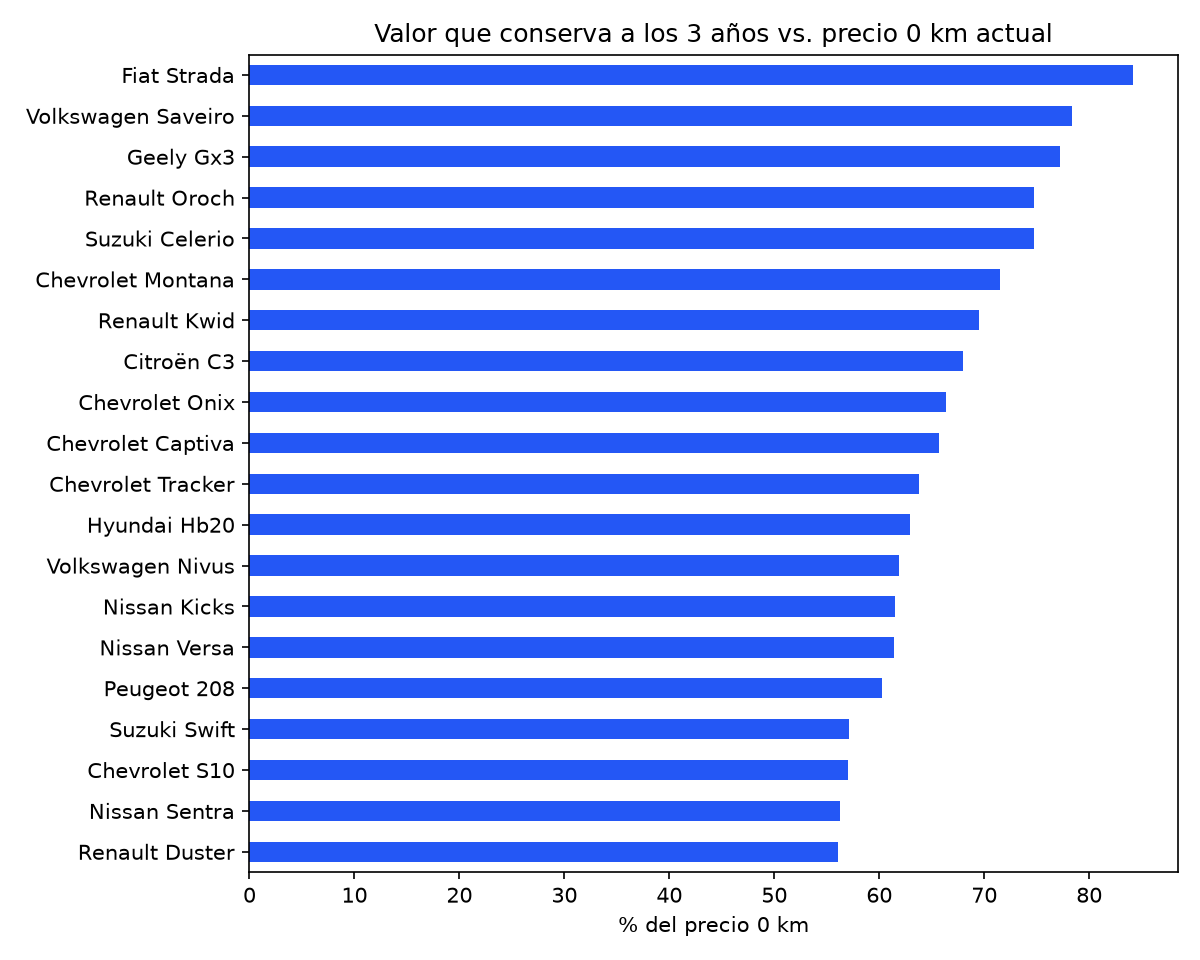
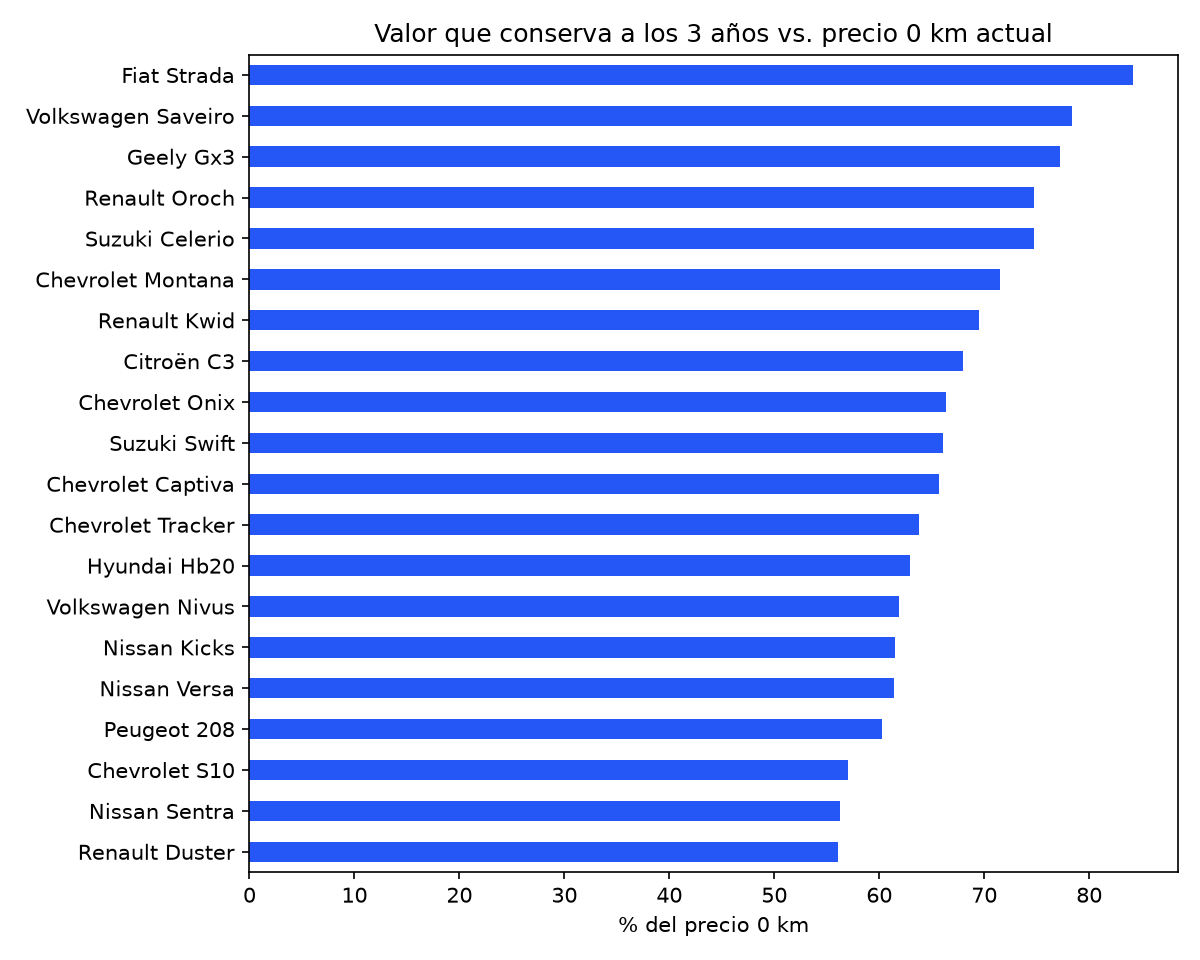
Price models from new against comparable 0 km versions only
The 0 km reference now skips versions with another powertrain and
sub-models that barely appear among used cars, falls back to electrified
versions when a model is only sold that way, reports retention against
both the median and the cheapest version, and lists the versions used
so the matching can be audited.

diff --git a/src/vidriera_insights/analysis.py b/src/vidriera_insights/analysis.py
@@ -122,17 +122,60 @@ def pct_loss(log_slope: float) -> float:
     return round((1 - np.exp(log_slope)) * 100, 1)
 
 
-def new_price_for(brand: str, model: str, new: pd.DataFrame) -> float | None:
-    """Median 0 km list price of a model, matching list entries that start with its name.
+NEW_ELECTRIC = re.compile(r"\bev\b|\bbev\b|kwh|el[eé]ctric")
+NEW_HYBRID = re.compile(r"h[ií]brid|hybrid|\bphev\b|\bhev\b|\bmhev\b|\bdht\b|e-power|\bdm-i\b")
+# Words that, right after the model name, mark a different car rather than a trim.
+SUB_MODELS = {"plus", "sport", "pro", "cross", "max", "sedan", "sedán", "hatch", "cabrio", "coupé", "coupe"}
 
-    The list names versions ("Onix 1.0 Turbo LT", "Onix Plus Premier"), so every
-    version whose name starts with the model counts; the median keeps one pricey
-    trim from dominating.
+
+def powertrain_of(name: str) -> str:
+    name = name.lower()
+    if NEW_ELECTRIC.search(name):
+        return "Eléctrico"
+    if NEW_HYBRID.search(name):
+        return "Híbrido"
+    return "Combustión"
+
+
+def new_versions_for(brand: str, model: str, new: pd.DataFrame, used: pd.DataFrame | None = None) -> pd.DataFrame:
+    """0 km list entries comparable to the used cars of a model.
+
+    Starts from every version whose name begins with the model ("Onix 1.0 LT",
+    "Onix Plus Premier") and, when the used cars are given, drops the versions that
+    are really a different car:
+    - another powertrain (an EV or plug-in version next to petrol used cars);
+    - a sub-model ("Swift Sport") that barely appears among the used listings.
+    A sub-model shared by every 0 km version ("GX3 Pro") is just the model's name.
     """
     same_brand = new[new["brand"] == brand]
     pattern = re.compile(rf"^{re.escape(model.lower())}(\s|$)")
-    matches = same_brand[same_brand["name"].str.lower().str.match(pattern)]
-    return float(matches["price"].median()) if len(matches) else None
+    matches = same_brand[same_brand["name"].str.lower().str.match(pattern)].copy()
+    if used is None or matches.empty:
+        return matches
+
+    rest = matches["name"].str.lower().str.slice(len(model)).str.strip()
+    next_word = rest.str.split().str[0].fillna("")
+    text_cols = [c for c in ("version", "title") if c in used.columns]
+    used_text = used[text_cols].fillna("").agg(" ".join, axis=1).str.lower()
+    for word in set(next_word) & SUB_MODELS:
+        if (next_word == word).all():
+            continue
+        if used_text.str.contains(rf"\b{re.escape(word)}\b").mean() < 0.1:
+            matches = matches[next_word != word]
+            next_word = next_word[next_word != word]
+
+    used_fuel = used["fuel"].mode() if "fuel" in used.columns else pd.Series(dtype="object")
+    target = used_fuel.iloc[0] if len(used_fuel) and used_fuel.iloc[0] in ("Eléctrico", "Híbrido") else "Combustión"
+    same_powertrain = matches[matches["name"].map(powertrain_of) == target]
+    # Some models are now only sold electrified (the new Swift is a mild hybrid):
+    # then the remaining versions are still the closest thing to "this model, new".
+    return same_powertrain if len(same_powertrain) else matches
+
+
+def new_price_for(brand: str, model: str, new: pd.DataFrame, used: pd.DataFrame | None = None) -> float | None:
+    """Median 0 km list price over the comparable versions of a model."""
+    versions = new_versions_for(brand, model, new, used)
+    return float(versions["price"].median()) if len(versions) else None
 
 
 def depreciation_from_new(
@@ -151,18 +194,35 @@ def depreciation_from_new(
     for (brand, model), group in recent.groupby(["brand", "model"]):
         if len(group) < min_used or group["age"].nunique() < 2:
             continue
-        new_price = new_price_for(brand, model, new)
-        if new_price is None:
+        versions = new_versions_for(brand, model, new, group)
+        if versions.empty:
             continue
+        new_price, base_price = versions["price"].median(), versions["price"].min()
         slope, intercept = np.polyfit(group["age"], np.log(group["price"] / new_price), 1)
         if slope >= 0:  # value rising with age means the sample is noise, not a curve
             continue
         kept = {f"kept_{t}y_pct": round(float(np.exp(intercept + slope * t)) * 100, 1) for t in (1, 3, 5)}
-        rows.append({"brand": brand, "model": model, "new_price": new_price, "used_listings": len(group),
-                     "median_used_age": group["age"].median(), **kept})
-    columns = ["brand", "model", "new_price", "used_listings", "median_used_age",
-               "kept_1y_pct", "kept_3y_pct", "kept_5y_pct"]
+        # The used car's trim is unknown, so also read the curve against the cheapest
+        # version: the truth sits between "vs. median version" and "vs. base version".
+        kept_3y_vs_base = round(min(kept["kept_3y_pct"] * new_price / base_price, 100.0), 1)
+        rows.append({"brand": brand, "model": model, "new_price": new_price, "base_price": base_price,
+                     "versions": len(versions), "used_listings": len(group),
+                     "median_used_age": group["age"].median(), **kept, "kept_3y_vs_base_pct": kept_3y_vs_base})
+    columns = ["brand", "model", "new_price", "base_price", "versions", "used_listings", "median_used_age",
+               "kept_1y_pct", "kept_3y_pct", "kept_5y_pct", "kept_3y_vs_base_pct"]
     return pd.DataFrame(rows, columns=columns).sort_values("kept_3y_pct", ascending=False).reset_index(drop=True)
+
+
+def new_versions_table(used: pd.DataFrame, new: pd.DataFrame, models: pd.DataFrame) -> pd.DataFrame:
+    """Which 0 km versions priced each model, so the matching can be audited."""
+    rows = []
+    recent = used.dropna(subset=["model"])
+    for brand, model in models[["brand", "model"]].itertuples(index=False):
+        group = recent[(recent["brand"] == brand) & (recent["model"] == model)]
+        versions = new_versions_for(brand, model, new, group)
+        rows.append({"brand": brand, "model": model,
+                     "versions_used": " · ".join(f"{n} ({p:,.0f})" for n, p in versions[["name", "price"]].values)})
+    return pd.DataFrame(rows, columns=["brand", "model", "versions_used"])
 
 
 def powertrain_summary(df: pd.DataFrame) -> pd.DataFrame:

diff --git a/src/vidriera_insights/report.py b/src/vidriera_insights/report.py
@@ -92,6 +92,7 @@ def main() -> None:
     dealers = analysis.dealer_pricing(df, anonymize=args.anonymize_dealers)
     market = analysis.time_on_market(df)
     from_new = analysis.depreciation_from_new(df, new_cars)
+    from_new_versions = analysis.new_versions_table(df, new_cars, from_new)
     list_date = new_cars["list_updated"].dropna().iloc[0] if new_cars["list_updated"].notna().any() else "s/f"
     electrified = analysis.powertrain_summary(df)
     electric_cars = df[df["fuel"] == "Eléctrico"].sort_values("price")[
@@ -171,13 +172,25 @@ Valor que conserva un usado frente al **precio de lista 0 km actual** del mismo 
 `log(precio usado / precio 0 km) ~ antigüedad` sobre autos de hasta 6 años (misma generación).
 El precio 0 km es la mediana de las versiones del modelo en la
 [lista de precios de Autoblog Uruguay](https://www.autoblog.com.uy/p/precios-0km.html)
-({len(new_cars)} versiones, actualizada al {list_date}; precios en USD con IVA). Se descartan los modelos
-con menos de 10 usados recientes o con una curva sin sentido (que *sube* con la edad).
+({len(new_cars)} versiones, actualizada al {list_date}; precios en USD con IVA). Solo cuentan las versiones
+**comparables**: misma motorización que los usados (un Captiva naftero no se compara con el Captiva EV) y sin
+sub-modelos que casi no aparecen entre los usados (Swift Sport). Se descartan los modelos con menos de 10 usados
+recientes o con una curva sin sentido (que *sube* con la edad).
 
-Ojo: es el precio de lista **de hoy**, no el que pagó el primer dueño, y las versiones del usado y del 0 km
-pueden no coincidir. Es una aproximación razonable a "cuánto pierde un auto desde nuevo", no un valor exacto.
+Como no se sabe la versión de cada usado, hay dos lecturas: `kept_3y_pct` contra la **versión mediana** y
+`kept_3y_vs_base_pct` contra la **más barata**. El valor real está entre las dos.
+
+Ojo: es el precio de lista **de hoy**, no el que pagó el primer dueño, y no incluye las bonificaciones que suelen
+dar las concesionarias (lo que exagera un poco la pérdida). Es una aproximación razonable a "cuánto pierde un auto
+desde nuevo", no un valor exacto.
 
 ![](from_new.png)
+
+<details><summary>Versiones 0 km usadas para cada modelo</summary>
+
+{md(from_new_versions, index=False)}
+
+</details>
 
 {md(from_new, index=False) if not from_new.empty else "_Todavía no hay modelos con suficientes usados y precio 0 km._"}
 

diff --git a/tests/test_analysis.py b/tests/test_analysis.py
@@ -110,3 +110,19 @@ def test_market_trend_orders_snapshots():
     })
     trend = analysis.market_trend(snaps)
     assert list(trend["listings"]) == [1, 2]
+
+
+def test_new_versions_skip_other_powertrains_and_rare_sub_models():
+    new = pd.DataFrame({
+        "brand": ["Chevrolet"] * 2 + ["Suzuki"] * 4,
+        "name": ["Captiva XL LTZ 1.5 T", "Captiva EV Premier (60 kWh)",
+                 "Swift Hybrid 1.2 GLX M/T", "Swift Hybrid 1.2 GLX CVT", "Swift Sport 1.4 M/T", "Swift Sport 1.4 A/T"],
+        "price": [34990.0, 31990.0, 22990.0, 24990.0, 30590.0, 33590.0],
+    })
+    used_captiva = pd.DataFrame({"fuel": ["Nafta"] * 5, "version": ["Premier"] * 5, "title": ["Captiva"] * 5})
+    used_swift = pd.DataFrame({"fuel": ["Nafta"] * 5, "version": ["GL 1.2"] * 5, "title": ["Swift"] * 5})
+    captiva = analysis.new_versions_for("Chevrolet", "Captiva", new, used_captiva)
+    swift = analysis.new_versions_for("Suzuki", "Swift", new, used_swift)
+    assert captiva["name"].tolist() == ["Captiva XL LTZ 1.5 T"]  # petrol used cars aren't compared with the EV
+    # "Sport" is a different car; the new Swift is only sold as a hybrid, so those versions stay.
+    assert swift["name"].tolist() == ["Swift Hybrid 1.2 GLX M/T", "Swift Hybrid 1.2 GLX CVT"]

diff --git a/reports/REPORT.md b/reports/REPORT.md
@@ -91,36 +91,69 @@ Valor que conserva un usado frente al **precio de lista 0 km actual** del mismo 
 `log(precio usado / precio 0 km) ~ antigüedad` sobre autos de hasta 6 años (misma generación).
 El precio 0 km es la mediana de las versiones del modelo en la
 [lista de precios de Autoblog Uruguay](https://www.autoblog.com.uy/p/precios-0km.html)
-(1051 versiones, actualizada al 2026-10-12; precios en USD con IVA). Se descartan los modelos
-con menos de 10 usados recientes o con una curva sin sentido (que *sube* con la edad).
+(1051 versiones, actualizada al 2026-10-12; precios en USD con IVA). Solo cuentan las versiones
+**comparables**: misma motorización que los usados (un Captiva naftero no se compara con el Captiva EV) y sin
+sub-modelos que casi no aparecen entre los usados (Swift Sport). Se descartan los modelos con menos de 10 usados
+recientes o con una curva sin sentido (que *sube* con la edad).
 
-Ojo: es el precio de lista **de hoy**, no el que pagó el primer dueño, y las versiones del usado y del 0 km
-pueden no coincidir. Es una aproximación razonable a "cuánto pierde un auto desde nuevo", no un valor exacto.
+Como no se sabe la versión de cada usado, hay dos lecturas: `kept_3y_pct` contra la **versión mediana** y
+`kept_3y_vs_base_pct` contra la **más barata**. El valor real está entre las dos.
+
+Ojo: es el precio de lista **de hoy**, no el que pagó el primer dueño, y no incluye las bonificaciones que suelen
+dar las concesionarias (lo que exagera un poco la pérdida). Es una aproximación razonable a "cuánto pierde un auto
+desde nuevo", no un valor exacto.
 
 ![](from_new.png)
 
-| brand      | model   |   new_price |   used_listings |   median_used_age |   kept_1y_pct |   kept_3y_pct |   kept_5y_pct |
-|:-----------|:--------|------------:|----------------:|------------------:|--------------:|--------------:|--------------:|
-| Fiat       | Strada  |       19640 |              30 |               3.5 |          93.3 |          84.2 |          76.1 |
-| Volkswagen | Saveiro |       19340 |              12 |               3   |          82.2 |          78.4 |          74.9 |
-| Geely      | Gx3     |       17990 |              12 |               3.5 |          84.1 |          77.2 |          70.9 |
-| Renault    | Oroch   |       24490 |              29 |               4   |          92.3 |          74.7 |          60.4 |
-| Suzuki     | Celerio |       16640 |              17 |               5   |          80.2 |          74.7 |          69.6 |
-| Chevrolet  | Montana |       25990 |              22 |               2   |          83.4 |          71.5 |          61.3 |
-| Renault    | Kwid    |       15400 |              30 |               5   |          73.8 |          69.5 |          65.4 |
-| Citroën    | C3      |       17990 |              15 |               2   |          78.5 |          68   |          58.9 |
-| Chevrolet  | Onix    |       23490 |             153 |               3   |          70.6 |          66.4 |          62.5 |
-| Chevrolet  | Captiva |       35990 |              12 |               4   |          78.1 |          65.7 |          55.2 |
-| Chevrolet  | Tracker |       32890 |              45 |               5   |          70.7 |          63.8 |          57.6 |
-| Hyundai    | Hb20    |       23945 |              43 |               3   |          65.6 |          62.9 |          60.3 |
-| Volkswagen | Nivus   |       32990 |              12 |               5   |          65.8 |          61.9 |          58.2 |
-| Nissan     | Kicks   |       33990 |              25 |               3   |          69.3 |          61.5 |          54.5 |
-| Nissan     | Versa   |       28990 |              21 |               3   |          71.1 |          61.4 |          53   |
-| Peugeot    | 208     |       24990 |              31 |               3   |          72.5 |          60.3 |          50.2 |
-| Suzuki     | Swift   |       27790 |              11 |               3   |          59.4 |          57.1 |          54.9 |
-| Chevrolet  | S10     |       57990 |              11 |               2   |          66.6 |          57   |          48.9 |
-| Nissan     | Sentra  |       41490 |              14 |               4   |          69.2 |          56.3 |          45.8 |
-| Renault    | Duster  |       27895 |              11 |               4   |          62.8 |          56.1 |          50   |
+<details><summary>Versiones 0 km usadas para cada modelo</summary>
+
+| brand      | model   | versions_used                                                                                                                                                                                                                                                                                                   |
+|:-----------|:--------|:----------------------------------------------------------------------------------------------------------------------------------------------------------------------------------------------------------------------------------------------------------------------------------------------------------------|
+| Fiat       | Strada  | Strada Endurance Cabina Plus 1.3 M/T (16,490) · Strada Freedom Cabina Doble 1.3 M/T (17,990) · Strada Volcano Cabina Doble 1.3 CVT (21,290) · Strada Ultra Cabina Doble Turbo 200 1.0 CVT (22,990)                                                                                                              |
+| Volkswagen | Saveiro | Saveiro Cabina Simple 1.6 (17,590) · Saveiro Cabina Doble 1.6 (17,990) · Saveiro Cabina Doble Extreme 1.6 (20,690) · Saveiro Cabina Doble Extreme Plus 1.6 (21,990)                                                                                                                                             |
+| Geely      | Gx3     | GX3 Pro 1.5 GB M/T (16,990) · GX3 Pro 1.5 GC M/T (17,990) · GX3 Pro 1.5 GF CVT (20,990)                                                                                                                                                                                                                         |
+| Renault    | Oroch   | Oroch Cargo 1.6 SCe M/T 2WD (19,990) · Oroch Cargo Pro 1.6 SCe M/T 2WD (20,990) · Oroch Zen 1.6 SCe M/T 2WD (21,900) · Oroch Intens Outsider 1.6 SCe M/T 2WD (24,490) · Oroch Intens 1.3 TCe CVT 2WD (25,990) · Oroch Intens Outsider 1.3 TCe CVT 2WD (27,490) · Oroch Intens Outsider 1.3 TCe M/T 4WD (28,990) |
+| Suzuki     | Celerio | Celerio 1.0 GL M/T (15,990) · Celerio 1.0 GL AMT (17,290)                                                                                                                                                                                                                                                       |
+| Chevrolet  | Montana | Montana LT 1.2 Turbo A/T (21,990) · Montana LTZ 1.2 Turbo A/T (24,990) · Montana Premier 1.2 Turbo A/T (26,990) · Montana RS 1.2 Turbo A/T (27,490)                                                                                                                                                             |
+| Renault    | Kwid    | Kwid Evolution 1.0 SCe (14,500) · Kwid Techno 1.0 SCe (15,200) · Kwid Bitono 1.0 SCe (15,600) · Kwid Outsider 1.0 SCe (15,900)                                                                                                                                                                                  |
+| Citroën    | C3      | C3 1.0 M/T Live (15,990) · C3 1.0 M/T Live Pack (16,990) · C3 1.0 M/T Feel (17,990) · C3 1.6 16v Feel Pack AT6 (20,990) · C3 You! 1.0 Turbo 200 CVT (22,990)                                                                                                                                                    |
+| Chevrolet  | Onix    | Onix LT 1.0 (18,990) · Onix LTZ 1.0 Turbo M/T (22,490) · Onix Premier 1.0 Turbo A/T (24,790) · Onix RS 1.0 Turbo A/T (24,990) · Onix Plus LT 1.0 (19,990) · Onix Plus LTZ 1.0 Turbo M/T (23,490) · Onix Plus Premier 1.0 Turbo A/T (25,990)                                                                     |
+| Suzuki     | Swift   | Swift Hybrid 1.2 GLX M/T (22,990) · Swift Hybrid 1.2 GLX CVT (24,990)                                                                                                                                                                                                                                           |
+| Chevrolet  | Captiva | Captiva XL LTZ 1.5 T FWD CVT (34,990) · Captiva XL Premier 1.5 T FWD CVT (36,990)                                                                                                                                                                                                                               |
+| Chevrolet  | Tracker | Tracker LT 1.2 Turbo A/T (27,990) · Tracker LTZ 1.2 Turbo A/T (31,990) · Tracker Premier 1.2 Turbo A/T (33,790) · Tracker RS 1.2 Turbo A/T (33,990)                                                                                                                                                             |
+| Hyundai    | Hb20    | HB20 1.0 Comfort M/T (16,990) · HB20 1.0 Premium M/T (19,990) · HB20 1.6 Premium M/T (22,900) · HB20 1.6 Premium A/T (24,990) · HB20 1.6 Unique M/T (25,990) · HB20 1.6 Unique A/T (27,990)                                                                                                                     |
+| Volkswagen | Nivus   | Nivus Comfortline 170 TSI 1.0 M/T (25,690) · Nivus Comfortline 200 TSI 1.0 A/T (28,990) · Nivus Highline 200 TSI 1.0 A/T (32,990) · Nivus Outfit 200 TSI 1.0 A/T (33,990) · Nivus GTS 250 TSI 1.4 A/T (35,990)                                                                                                  |
+| Nissan     | Kicks   | Kicks 1.0T Sense EDC (31,990) · Kicks 1.0T Advance EDC (33,990) · Kicks 1.0T Exclusive EDC (36,490)                                                                                                                                                                                                             |
+| Nissan     | Versa   | Versa Drive Sense 1.6 M/T (25,990) · Versa 1.6 Sense M/T (27,990) · Versa 1.6 Sense CVT (28,990) · Versa 1.6 Advance CVT (29,990) · Versa 1.6 Exclusive CVT (32,990)                                                                                                                                            |
+| Peugeot    | 208     | 208 Active 1.0 BVM5 (17,990) · 208 Style 1.0 BVM5 (19,990) · 208 Allure 1.6 VTi BVM5 (24,990) · 208 Allure 1.0 Turbo 200 CVT (25,990) · 208 GT 1.0 Turbo 200 CVT (28,490)                                                                                                                                       |
+| Chevrolet  | S10     | S10 WT 2.8 CTDI 4x2 M/T (47,568) · S10 WT 2.8 CTDI 4x4 M/T (51,990) · S10 WT 2.8 CTDI 4x4 AT8 (55,990) · S10 Z71 2.8 CTDI 4x4 AT8 (59,990) · S10 LTZ 2.8 CTDI 4x4 AT8 (65,990) · S10 High Country 2.8 CTDI 4x4 AT8 (67,990)                                                                                     |
+| Nissan     | Sentra  | Sentra 2.0 Advance CVT (39,990) · Sentra 2.0 SR Platinum CVT (42,990)                                                                                                                                                                                                                                           |
+| Renault    | Duster  | Duster Intens Plus 1.6 SCe M/T (24,500) · Duster Intens Plus 1.6 SCe CVT (24,990) · Duster Iconic 1.6 SCe CVT (30,800) · Duster Iconic Outsider 1.3 TCe CVT (31,200)                                                                                                                                            |
+
+</details>
+
+| brand      | model   |   new_price |   base_price |   versions |   used_listings |   median_used_age |   kept_1y_pct |   kept_3y_pct |   kept_5y_pct |   kept_3y_vs_base_pct |
+|:-----------|:--------|------------:|-------------:|-----------:|----------------:|------------------:|--------------:|--------------:|--------------:|----------------------:|
+| Fiat       | Strada  |       19640 |        16490 |          4 |              30 |               3.5 |          93.3 |          84.2 |          76.1 |                 100   |
+| Volkswagen | Saveiro |       19340 |        17590 |          4 |              12 |               3   |          82.2 |          78.4 |          74.9 |                  86.2 |
+| Geely      | Gx3     |       17990 |        16990 |          3 |              12 |               3.5 |          84.1 |          77.2 |          70.9 |                  81.7 |
+| Renault    | Oroch   |       24490 |        19990 |          7 |              29 |               4   |          92.3 |          74.7 |          60.4 |                  91.5 |
+| Suzuki     | Celerio |       16640 |        15990 |          2 |              17 |               5   |          80.2 |          74.7 |          69.6 |                  77.7 |
+| Chevrolet  | Montana |       25990 |        21990 |          4 |              22 |               2   |          83.4 |          71.5 |          61.3 |                  84.5 |
+| Renault    | Kwid    |       15400 |        14500 |          4 |              30 |               5   |          73.8 |          69.5 |          65.4 |                  73.8 |
+| Citroën    | C3      |       17990 |        15990 |          5 |              15 |               2   |          78.5 |          68   |          58.9 |                  76.5 |
+| Chevrolet  | Onix    |       23490 |        18990 |          7 |             153 |               3   |          70.6 |          66.4 |          62.5 |                  82.1 |
+| Suzuki     | Swift   |       23990 |        22990 |          2 |              11 |               3   |          68.8 |          66.1 |          63.6 |                  69   |
+| Chevrolet  | Captiva |       35990 |        34990 |          2 |              12 |               4   |          78.1 |          65.7 |          55.2 |                  67.6 |
+| Chevrolet  | Tracker |       32890 |        27990 |          4 |              45 |               5   |          70.7 |          63.8 |          57.6 |                  75   |
+| Hyundai    | Hb20    |       23945 |        16990 |          6 |              43 |               3   |          65.6 |          62.9 |          60.3 |                  88.6 |
+| Volkswagen | Nivus   |       32990 |        25690 |          5 |              12 |               5   |          65.8 |          61.9 |          58.2 |                  79.5 |
+| Nissan     | Kicks   |       33990 |        31990 |          3 |              25 |               3   |          69.3 |          61.5 |          54.5 |                  65.3 |
+| Nissan     | Versa   |       28990 |        25990 |          5 |              21 |               3   |          71.1 |          61.4 |          53   |                  68.5 |
+| Peugeot    | 208     |       24990 |        17990 |          5 |              31 |               3   |          72.5 |          60.3 |          50.2 |                  83.8 |
+| Chevrolet  | S10     |       57990 |        47568 |          6 |              11 |               2   |          66.6 |          57   |          48.9 |                  69.5 |
+| Nissan     | Sentra  |       41490 |        39990 |          2 |              14 |               4   |          69.2 |          56.3 |          45.8 |                  58.4 |
+| Renault    | Duster  |       27895 |        24500 |          4 |              11 |               4   |          62.8 |          56.1 |          50   |                  63.9 |
 
 
 ## 3. Kilometraje

diff --git a/README.md b/README.md
@@ -28,7 +28,7 @@ Full, regenerated-weekly output: [`reports/REPORT.md`](reports/REPORT.md).
 | Brand and segment summaries | pandas group-bys with a minimum sample size per group; missing fuel inferred from the title ("EV", "Hybrid", "Seagull"…) |
 | Overall depreciation curve | median price by age as % of 0–1 year-old cars *in the used stock*; descriptive only, since it mixes models (newer stock skews to SUVs and Chinese brands) |
 | **Per-model depreciation** | two log-linear fits per model: `log(price) ~ age` (total yearly loss a buyer sees) and `log(price) ~ age + km` (loss from age alone, and per 10,000 km) |
-| **Depreciation from new** | `log(used / 0 km list price) ~ age` on cars up to 6 years old (same generation); 0 km price = median of the model's versions in Autoblog's list; free intercept captures the first-owner discount |
+| **Depreciation from new** | `log(used / 0 km list price) ~ age` on cars up to 6 years old (same generation); 0 km price = median of the model’s comparable versions in Autoblog’s list (same powertrain, no rare sub-models such as "Swift Sport"), read against the median and the cheapest version since the used trim is unknown; free intercept captures the first-owner discount |
 | Cost of mileage | within-group regression: prices and km are demeaned per (brand, model, year), so age doesn't leak into the km effect |
 | **Price model** | `HistGradientBoostingRegressor` on brand, model, fuel, gearbox, body, age and km; `log(price)` target; rare models collapsed using training data only; 5-fold cross-validation; permutation importance |
 | Electric & hybrid market | share, price, age and brands; share tracked over time from snapshots |
@@ -58,7 +58,7 @@ pytest && ruff check src tests
 | `src/vidriera_insights/analysis.py` | Pure pandas/NumPy functions — no I/O, unit-tested with small fixtures. |
 | `src/vidriera_insights/model.py` | scikit-learn pipeline, evaluation against the comparables baseline, cross-validation, feature importance. |
 | `src/vidriera_insights/report.py` | CLI that renders the charts and the Markdown report. |
-| `tests/` | 16 tests, including synthetic markets with a known price rule the model and the regressions must recover. |
+| `tests/` | 17 tests, including synthetic markets with a known price rule the model and the regressions must recover. |
 | `.github/workflows/` | CI (ruff + pytest) on every push; a weekly job that refreshes data and commits the new report. |
 
 ## Limitations
